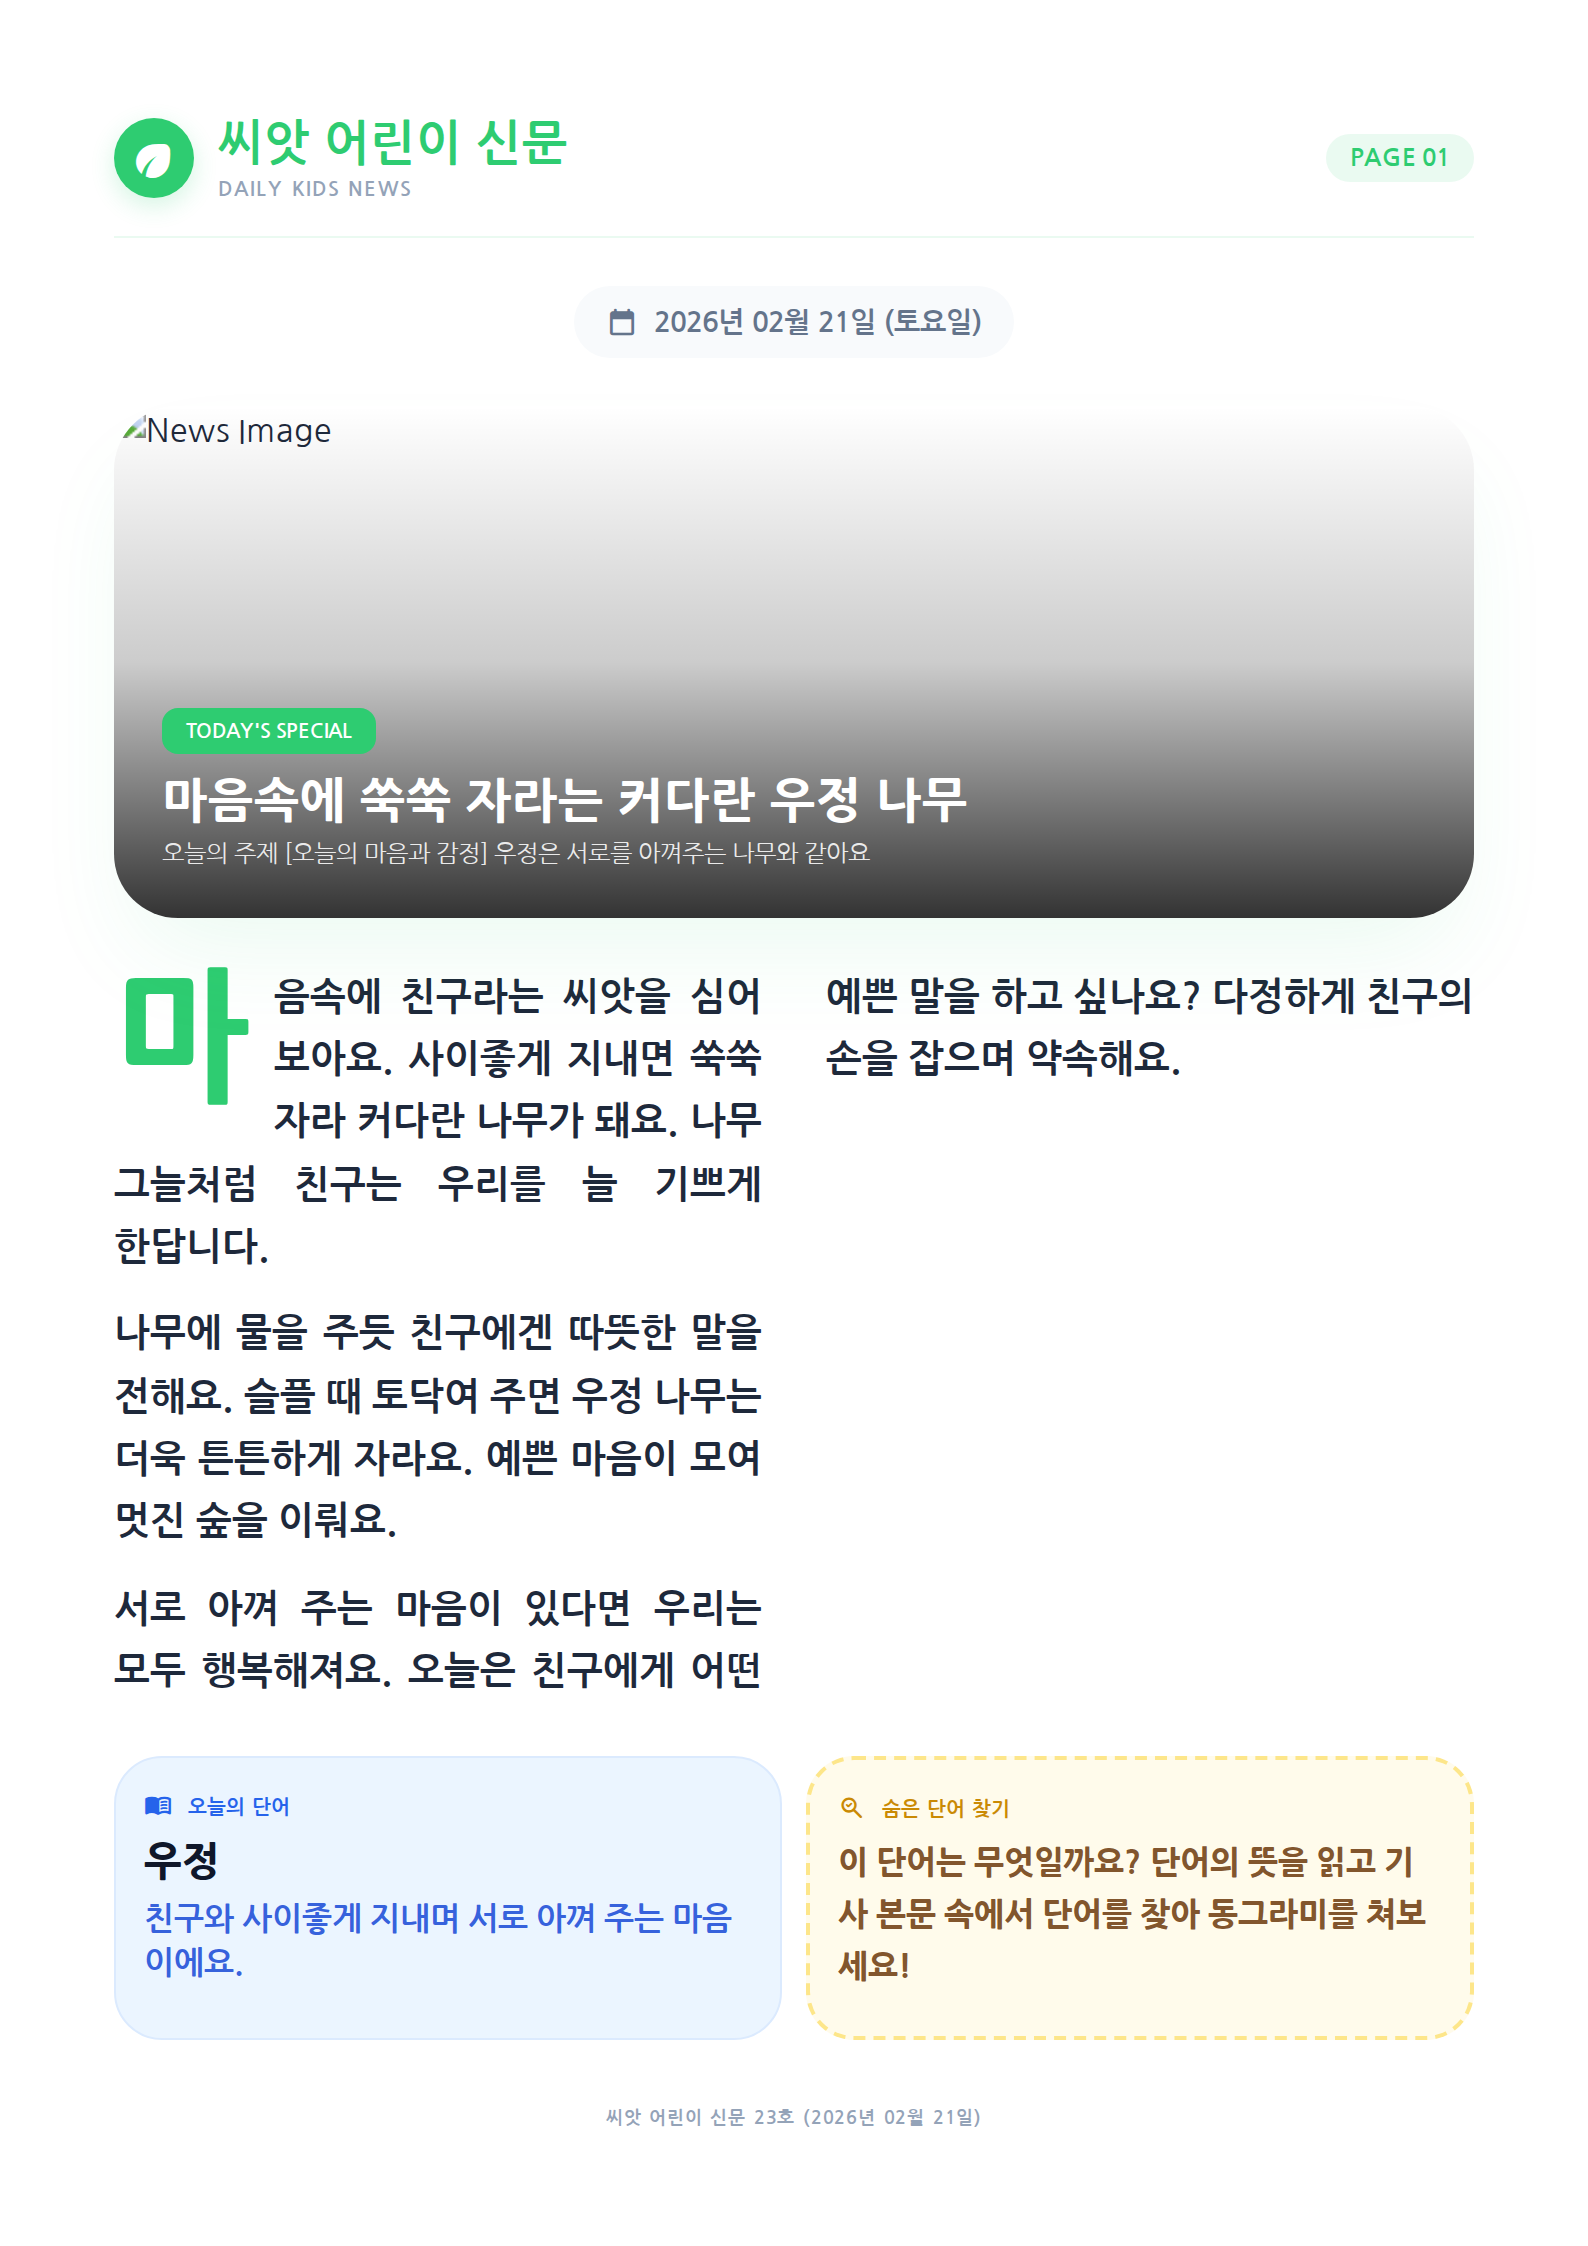
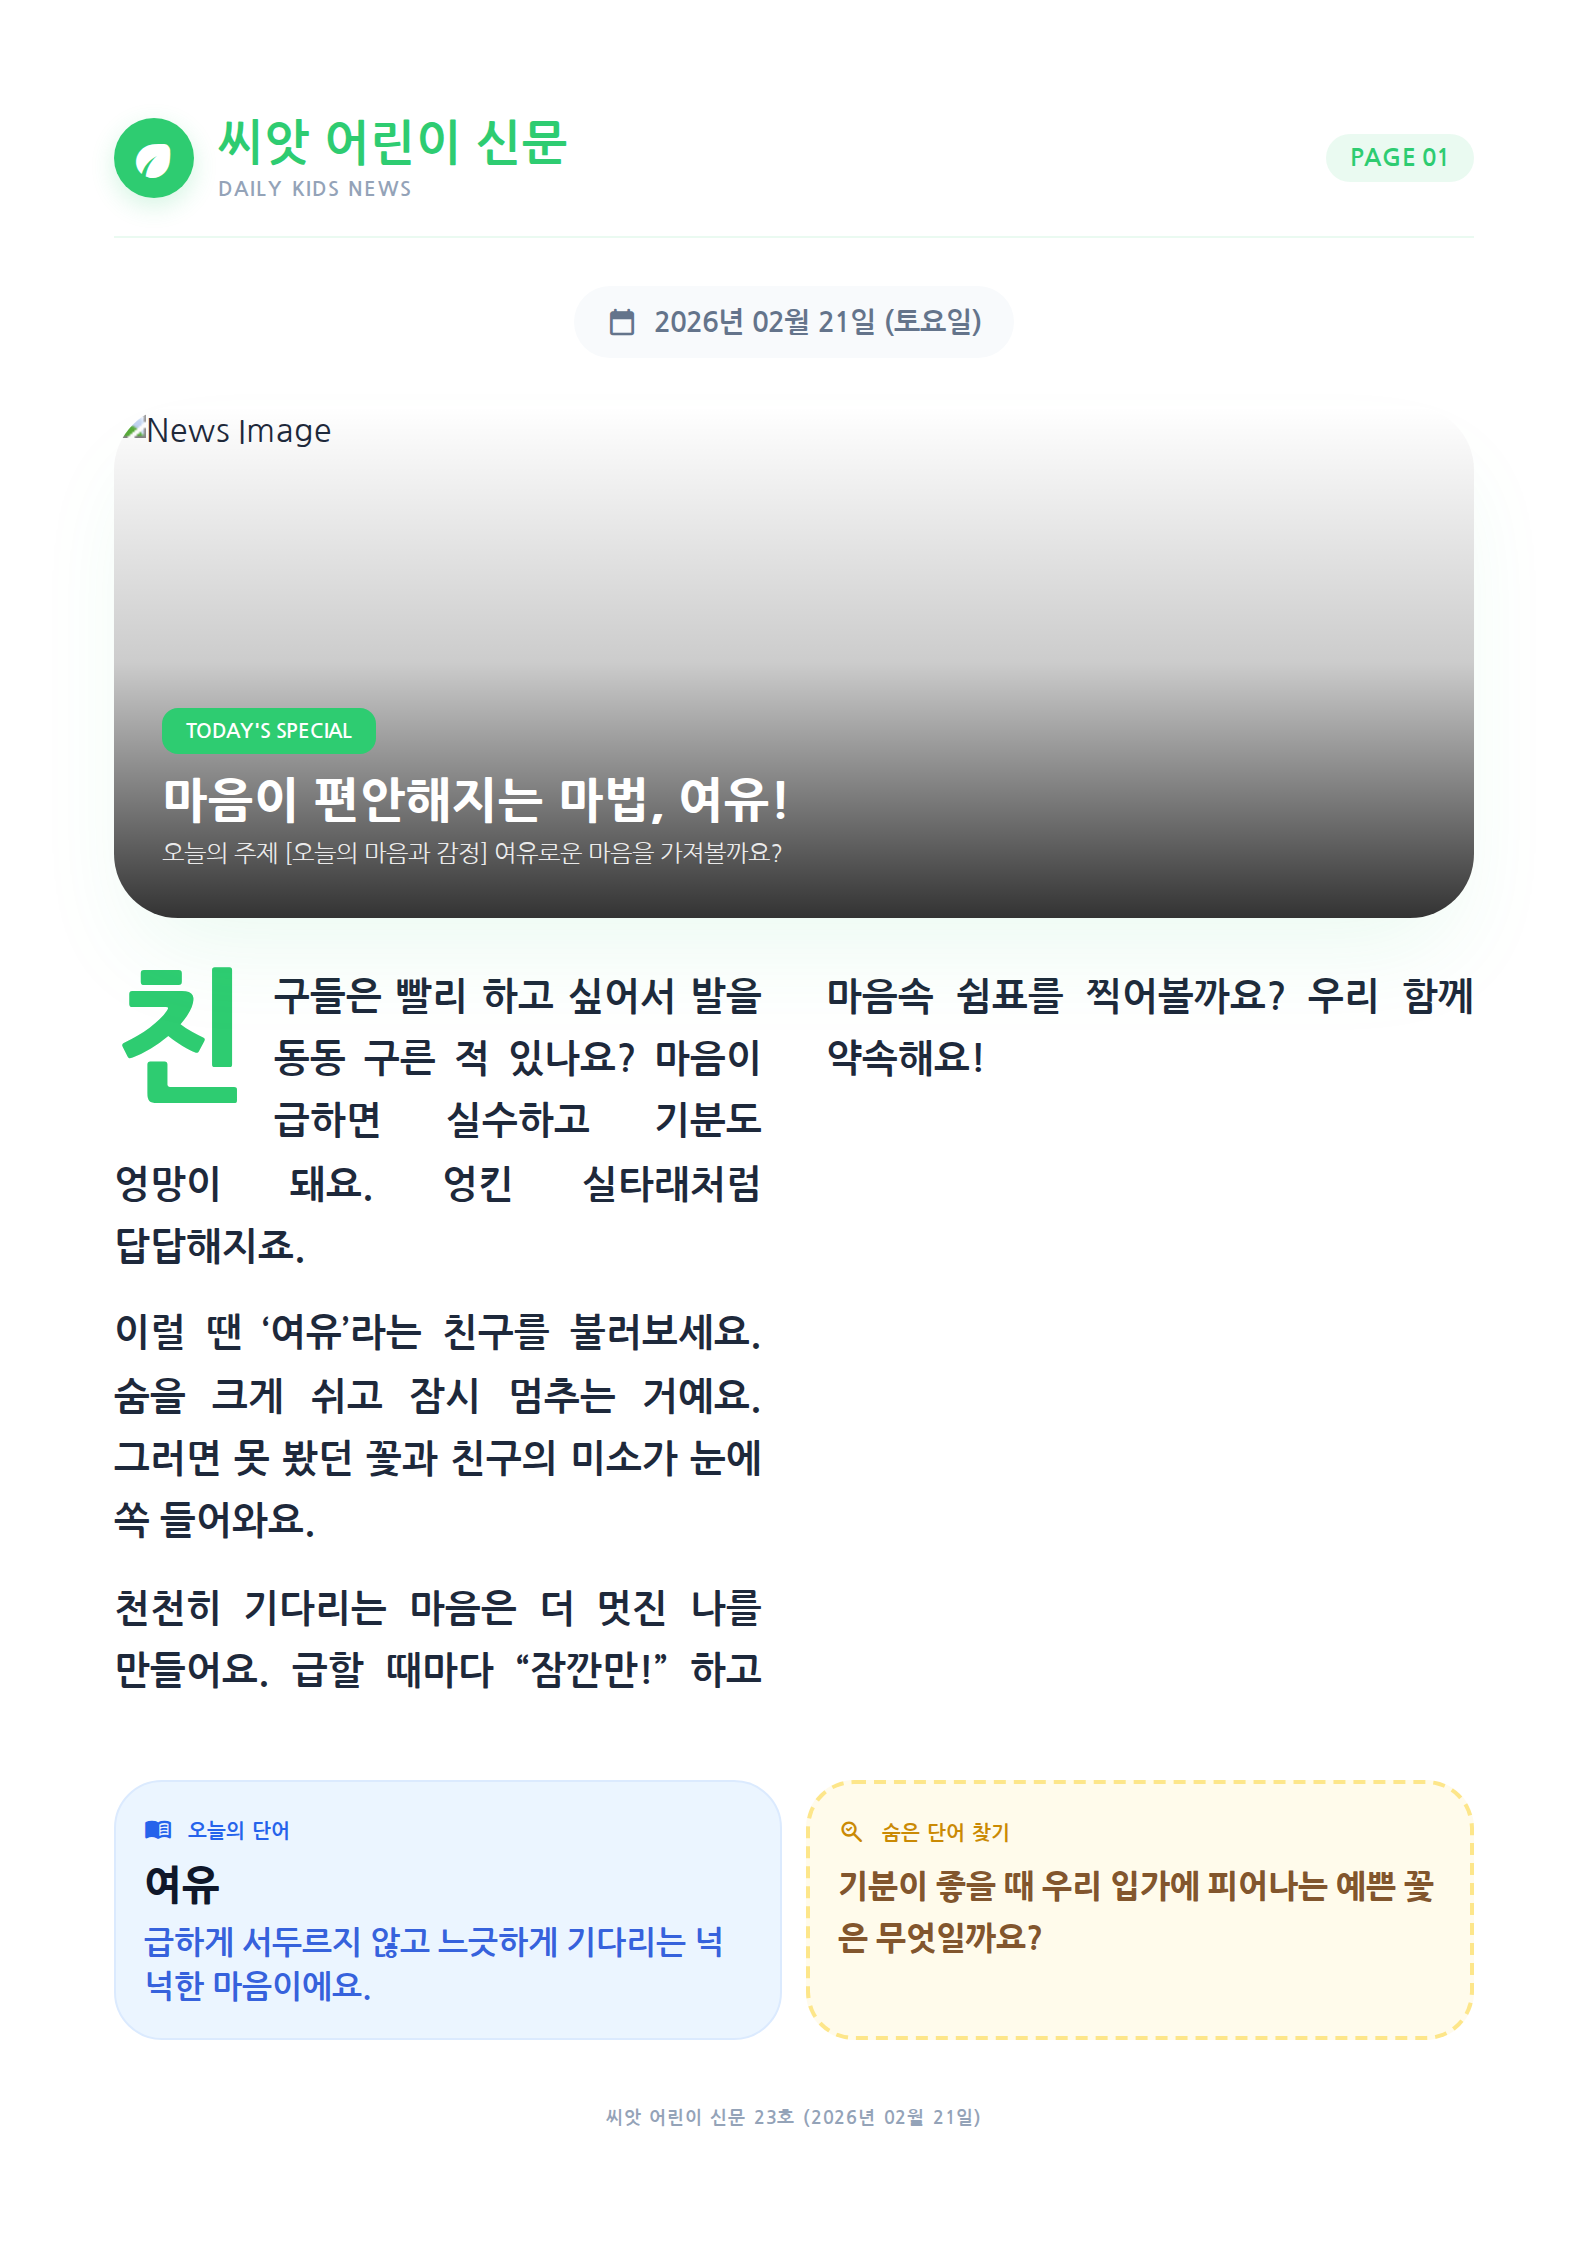
feat: 새 기사 추가 (2026-02-21)

diff --git a/kidsnews/2026-02-21/page1.html b/kidsnews/2026-02-21/page1.html
@@ -3,7 +3,7 @@
 
 <head>
     <meta charset="utf-8" />
-    <title>씨앗 어린이 신문 - 마음속에 쑥쑥 자라는 커다란 우정 나무</title>
+    <title>씨앗 어린이 신문 - 마음이 편안해지는 마법, 여유!</title>
     <script src="https://cdn.tailwindcss.com"></script>
     <script>
         tailwind.config = {
@@ -214,19 +214,19 @@ body {
             <div class="absolute inset-0 bg-gradient-to-t from-black/80 via-black/20 to-transparent"></div>
             <div class="absolute bottom-6 left-6 right-6">
                 <span class="inline-block px-3 py-1 bg-primary text-white text-[10px] font-bold rounded-lg mb-2 uppercase">Today's Special</span>
-                <h2 class="text-white text-2xl font-extrabold leading-tight mb-1">마음속에 쑥쑥 자라는 커다란 우정 나무</h2>
-                <p class="text-white/90 text-xs font-medium">오늘의 주제 [오늘의 마음과 감정] 우정은 서로를 아껴주는 나무와 같아요</p>
+                <h2 class="text-white text-2xl font-extrabold leading-tight mb-1">마음이 편안해지는 마법, 여유!</h2>
+                <p class="text-white/90 text-xs font-medium">오늘의 주제 [오늘의 마음과 감정] 여유로운 마음을 가져볼까요?</p>
             </div>
         </section>
 
         <article class="flex-1 overflow-hidden">
             <div class="columns-2 gap-8 article-text h-full">
                 
-                <p class="drop-cap">마음속에 친구라는 씨앗을 심어 보아요. 사이좋게 지내면 쑥쑥 자라 커다란 나무가 돼요. 나무 그늘처럼 친구는 우리를 늘 기쁘게 한답니다.</p>
+                <p class="drop-cap">친구들은 빨리 하고 싶어서 발을 동동 구른 적 있나요? 마음이 급하면 실수하고 기분도 엉망이 돼요. 엉킨 실타래처럼 답답해지죠.</p>
                 
-                <p class="">나무에 물을 주듯 친구에겐 따뜻한 말을 전해요. 슬플 때 토닥여 주면 우정 나무는 더욱 튼튼하게 자라요. 예쁜 마음이 모여 멋진 숲을 이뤄요.</p>
+                <p class="">이럴 땐 ‘여유’라는 친구를 불러보세요. 숨을 크게 쉬고 잠시 멈추는 거예요. 그러면 못 봤던 꽃과 친구의 미소가 눈에 쏙 들어와요.</p>
                 
-                <p class="">서로 아껴 주는 마음이 있다면 우리는 모두 행복해져요. 오늘은 친구에게 어떤 예쁜 말을 하고 싶나요? 다정하게 친구의 손을 잡으며 약속해요.</p>
+                <p class="">천천히 기다리는 마음은 더 멋진 나를 만들어요. 급할 때마다 “잠깐만!” 하고 마음속 쉼표를 찍어볼까요? 우리 함께 약속해요!</p>
                 
             </div>
         </article>
@@ -237,8 +237,8 @@ body {
                     <span class="material-symbols-rounded text-sm">menu_book</span>
                     <span class="text-[10px] font-bold tracking-wider uppercase">오늘의 단어</span>
                 </div>
-                <p class="text-xl font-extrabold text-slate-900 mb-1">우정</p>
-                <p class="text-base font-bold text-blue-700/90 leading-snug">친구와 사이좋게 지내며 서로 아껴 주는 마음이에요.</p>
+                <p class="text-xl font-extrabold text-slate-900 mb-1">여유</p>
+                <p class="text-base font-bold text-blue-700/90 leading-snug">급하게 서두르지 않고 느긋하게 기다리는 넉넉한 마음이에요.</p>
             </div>
 
             <div class="card-yellow">
@@ -246,7 +246,7 @@ body {
                     <span class="material-symbols-rounded text-sm">search_check</span>
                     <span class="text-[10px] font-bold tracking-wider uppercase">숨은 단어 찾기</span>
                 </div>
-                <p class="text-base font-extrabold text-yellow-900/90 leading-relaxed mb-2">이 단어는 무엇일까요? 단어의 뜻을 읽고 기사 본문 속에서 단어를 찾아 동그라미를 쳐보세요!</p>
+                <p class="text-base font-extrabold text-yellow-900/90 leading-relaxed mb-2">기분이 좋을 때 우리 입가에 피어나는 예쁜 꽃은 무엇일까요?</p>
             </div>
         </div>
 

diff --git a/kidsnews/2026-02-21/page2.html b/kidsnews/2026-02-21/page2.html
@@ -206,7 +206,7 @@ body {
             <div class="flex flex-col gap-6">
     <div class="bg-purple-50 p-6 rounded-2xl border border-purple-100">
         <p class="text-xl font-bold text-gray-800 leading-relaxed">
-            🤔 처음 만난 친구와 마음이 잘 통해 대화를 나누기 시작하자, 마음속에 아주 작은 우정의 씨앗이 싹을 틔우기 시작했어요. <br>
+            🤔 주말 오후, 따스한 햇살이 비치는 창가에 앉아 좋아하는 책을 읽으며 따뜻한 차 한 잔을 마시는 시간입니다. 시계 초침 소리만 들리는 조용한 공간에서 느껴지는 기분은 무엇일까요? <br>
             <span class="text-purple-600">주인공은 어떤 마음일까요? 그림을 보고 맞춰보세요!</span>
         </p>
     </div>
@@ -237,8 +237,8 @@ body {
                     <span class="text-[10px] font-bold tracking-wider uppercase">오늘의 좋은 말</span>
                 </div>
                 <div class="flex flex-col gap-1">
-                    <p class="text-3xl font-black text-slate-900">가는 말이 고와야 오는 말이 곱다</p>
-                    <p class="text-base font-bold text-blue-700/80 leading-snug">내가 친구에게 예쁘고 따뜻한 말을 먼저 하면, 친구도 나에게 기분 좋은 말을 해 준다는 뜻이에요.</p>
+                    <p class="text-3xl font-black text-slate-900">급할수록 돌아가라</p>
+                    <p class="text-base font-bold text-blue-700/80 leading-snug">너무 빨리 하려고 서두르면 오히려 엉망이 될 수 있어요. 그럴 때는 차라리 천천히 꼼꼼하게 하는 게 더 좋다는 뜻이에요.</p>
                 </div>
             </div>
         </footer>
